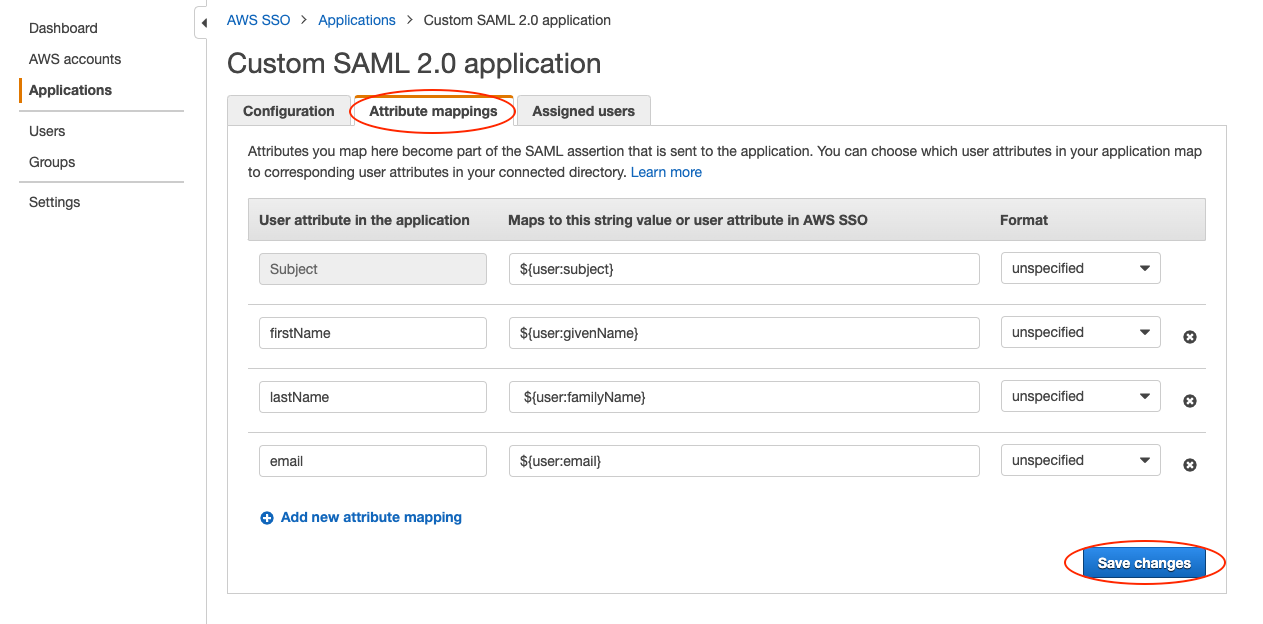
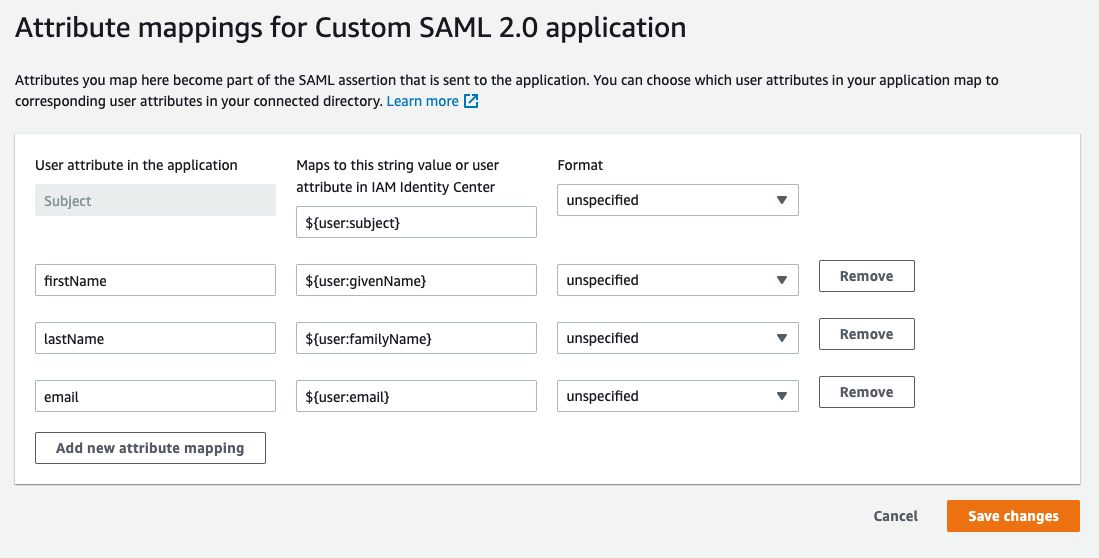
updated aws and azure screenshots

diff --git a/src/app/components/IdentityProviderWizard/Wizards/Providers/AWS/saml/steps/5.tsx b/src/app/components/IdentityProviderWizard/Wizards/Providers/AWS/saml/steps/5.tsx
@@ -5,7 +5,7 @@ import * as Images from "@app/images/aws";
 export const Step5: FC = () => {
   const instructions: InstructionProps[] = [
     {
-      text: 'In order for your users to be able to access the application, you must assign users and/or groups. Start by opening the "Assigned users" tab and selecting "Assign users".',
+      text: 'In order for your users to be able to access the application, you must assign users and/or groups. Start by opening the "Assigned users" page by selecting "Assign users" button.',
       component: <StepImage src={Images.AWS_SSO_SAML_6} alt="Step 5.1" />,
     },
     {
@@ -13,7 +13,7 @@ export const Step5: FC = () => {
       component: <StepImage src={Images.AWS_SSO_SAML_7} alt="Step 5.2" />,
     },
     {
-      text: "You can also add groups of users. This is the preferred way to manage user access.",
+      text: 'You can also add groups of users. This is the preferred way to manage user access. Click the "Assign users" button when you have finished this step.',
       component: <StepImage src={Images.AWS_SSO_SAML_8} alt="Step 5.3" />,
     },
   ];

diff --git a/src/app/components/IdentityProviderWizard/Wizards/Providers/AWS/saml/steps/4.tsx b/src/app/components/IdentityProviderWizard/Wizards/Providers/AWS/saml/steps/4.tsx
@@ -10,12 +10,17 @@ import * as Images from "@app/images/aws";
 export const Step4: FC = () => {
   const instructions: InstructionProps[] = [
     {
+      text: 'Navigate to the attribute mapping section by opening the "Actions" dropdown in the "Details section. Select "Edit attribute mappings".',
+      component: <StepImage src={Images.AWS_SSO_SAML_5_A} alt="Step 4.1.a" />,
+    },
+    {
       component: (
         <div>
           In the "Attribute mappings" section, provide the following attribute
-          mappings and select "Save". Note you may need to click "+ Add new
+          mappings and select "Save". Note you may need to click "+ Add new 
           attribute mapping" to configure each of the mappings. Format should be
-          set to "unspecified" for each of the mappings.
+          set to "unspecified" for each of the mappings. When you are finished, 
+          click "Save changes" before proceeding.
         </div>
       ),
     },

diff --git a/src/app/components/IdentityProviderWizard/Wizards/Providers/AWS/saml/steps/1.tsx b/src/app/components/IdentityProviderWizard/Wizards/Providers/AWS/saml/steps/1.tsx
@@ -5,11 +5,11 @@ import * as Images from "@app/images/aws";
 export const Step1: FC = () => {
   const instructions: InstructionProps[] = [
     {
-      text: 'In the AWS SSO console, select "Applications" from the menu. On this page, select the "Add a new application" button.',
+      text: 'In the AWS SSO console, select "Applications" from the menu. On this page, select the "Add application" button.',
       component: <StepImage src={Images.AWS_SSO_SAML_1} alt="Step 1.1" />,
     },
     {
-      text: 'The next screen is an application catalog. Select "Add a custom SAML 2.0 application" at the top of the list, and then select "Add application".',
+      text: 'The next screen is an application catalog. Select "Add custom SAML 2.0 application" at the top of the list, and then scroll down to the bottom and click "Next".',
       component: <StepImage src={Images.AWS_SSO_SAML_2} alt="Step 1.2" />,
     },
   ];

diff --git a/src/app/components/IdentityProviderWizard/Wizards/services/saml-mapper.ts b/src/app/components/IdentityProviderWizard/Wizards/services/saml-mapper.ts
@@ -13,21 +13,22 @@ type Props = {
     serverUrl: string;
     realm: string;
   };
-  path: string;
+  createIdPUrl: string;
 };
 
 export const SamlUserAttributeMapper = async ({
   alias,
   attributes,
   keys: { serverUrl, realm },
-  createIdpUrl,
+  createIdPUrl,
 }: Props) => {
   const mapAttribute = async ({
     attributeName,
     friendlyName,
     userAttribute,
   }: AttributesConfig) => {
-    let endpoint = `${createIdpUrl}/${alias}/mappers`;
+    let endpoint = `${createIdPUrl}/${alias}/mappers`;
+    console.log("using url for idp mapper create", endpoint);
     /*
       ? `${createIdpUrl}/${alias}/mappers`
       : `${serverUrl}/${realm}/identity-provider/instances/${alias}/mappers`;

diff --git a/src/app/components/IdentityProviderWizard/Wizards/Providers/AWS/saml/steps/2.tsx b/src/app/components/IdentityProviderWizard/Wizards/Providers/AWS/saml/steps/2.tsx
@@ -17,7 +17,7 @@ type Props = {
 export const Step2: FC<Props> = ({ url, handleFormSubmit }) => {
   const instructions: InstructionProps[] = [
     {
-      text: 'Enter a "Display Name" and an optional "Description". Click the "Copy URL" link next to the "AWS SSO SAML metadata file" URL, and paste it into the field below. This will load the AWS SSO configuration.',
+      text: 'Enter a "Display Name" and an optional "Description". Click the "Box" icon next to the "IAM Identity Center SAML metadata fille" URL, and paste it into the field below. This will load the AWS SSO configuration.',
       component: <StepImage src={Images.AWS_SSO_SAML_3} alt="Step 2.1" />,
     },
     {

diff --git a/src/app/components/IdentityProviderWizard/Wizards/Providers/AWS/saml/index.tsx b/src/app/components/IdentityProviderWizard/Wizards/Providers/AWS/saml/index.tsx
@@ -141,8 +141,8 @@ export const AWSSamlWizard: FC = () => {
       await Axios.post(createIdPUrl, payload);
 
       await SamlUserAttributeMapper({
-        createIdpUrl,
         alias,
+        createIdPUrl,
         keys: { serverUrl: baseServerRealmsUrl, realm: getRealm()! },
         attributes: [
           {
@@ -168,6 +168,7 @@ export const AWSSamlWizard: FC = () => {
       setError(false);
       setDisableButton(true);
     } catch (e) {
+      console.error(e);
       setResults(
         "Error creating AWS SAML IdP. Please check values or confirm there is no SAML configured already."
       );

diff --git a/src/app/components/IdentityProviderWizard/Wizards/Providers/AWS/saml/steps/3.tsx b/src/app/components/IdentityProviderWizard/Wizards/Providers/AWS/saml/steps/3.tsx
@@ -32,7 +32,7 @@ export const Step3: FC<Props> = ({ urls: { samlAudience, acsURL } }) => {
       ),
     },
     {
-      text: 'Select the link "If you don\'t have a metadata file, you can manually type your metadata values.". Submit the "ACS URL" and the "SAML audience" values into the fields. Click "Save changes".',
+      text: 'Select the link "If you don\'t have a metadata file, you can manually type your metadata values.". Submit the "ACS URL" and the "SAML audience" values into the fields. Click "Submit".',
       component: <StepImage src={Images.AWS_SSO_SAML_4} alt="Step 3.1" />,
     },
   ];

diff --git a/src/app/images/aws/index.ts b/src/app/images/aws/index.ts
@@ -3,6 +3,7 @@ import AWS_SSO_SAML_1 from "./awssso_saml_1.png";
 import AWS_SSO_SAML_2 from "./awssso_saml_2.png";
 import AWS_SSO_SAML_3 from "./awssso_saml_3.png";
 import AWS_SSO_SAML_4 from "./awssso_saml_4.png";
+import AWS_SSO_SAML_5_A from "./awssso_saml_5a.png";
 import AWS_SSO_SAML_5 from "./awssso_saml_5.png";
 import AWS_SSO_SAML_6 from "./awssso_saml_6.png";
 import AWS_SSO_SAML_7 from "./awssso_saml_7.png";
@@ -15,6 +16,7 @@ export {
   AWS_SSO_SAML_3,
   AWS_SSO_SAML_4,
   AWS_SSO_SAML_5,
+  AWS_SSO_SAML_5_A,
   AWS_SSO_SAML_6,
   AWS_SSO_SAML_7,
   AWS_SSO_SAML_8,

diff --git a/src/app/images/azure/saml/index.ts b/src/app/images/azure/saml/index.ts
@@ -5,6 +5,7 @@ import AzureSaml3 from "./azure-3.png";
 import AzureSaml3a from "./azure-3a.png";
 import AzureSaml4 from "./azure-4.png";
 import AzureSaml5 from "./azure-5.png";
+import AzureSaml5a from "./azure-5a.png";
 import AzureSaml6 from "./azure-6.png";
 import AzureSaml7 from "./azure-7.png";
 import AzureSaml8 from "./azure-8.png";
@@ -21,6 +22,7 @@ export {
   AzureSaml3a,
   AzureSaml4,
   AzureSaml5,
+  AzureSaml5a,
   AzureSaml6,
   AzureSaml7,
   AzureSaml8,

diff --git a/src/app/components/IdentityProviderWizard/Wizards/Providers/Azure/SAML/Steps/2.tsx b/src/app/components/IdentityProviderWizard/Wizards/Providers/Azure/SAML/Steps/2.tsx
@@ -15,6 +15,10 @@ export const AzureStepTwo: FC<Props> = ({ acsUrl, entityId }) => {
       component: <StepImage src={Images.AzureSaml5} alt="Step 2.1" />,
     },
     {
+      text: 'Click the "Add identifier" and "Add reply URL" links to open the fields for editing.',
+      component: <StepImage src={Images.AzureSaml5a} alt="Step 2.1.a" />,
+    },
+    {
       component: (
         <ClipboardCopyComponent
           label="Copy this identifier"

diff --git a/webpack.dev.js b/webpack.dev.js
@@ -3,7 +3,7 @@ const { merge } = require("webpack-merge");
 const common = require("./webpack.common.js");
 const { stylePaths } = require("./stylePaths");
 const HOST = process.env.HOST || "localhost";
-const PORT = process.env.PORT || "9000";
+const PORT = process.env.PORT || "9090";
 
 module.exports = merge(common("development"), {
   mode: "development",
